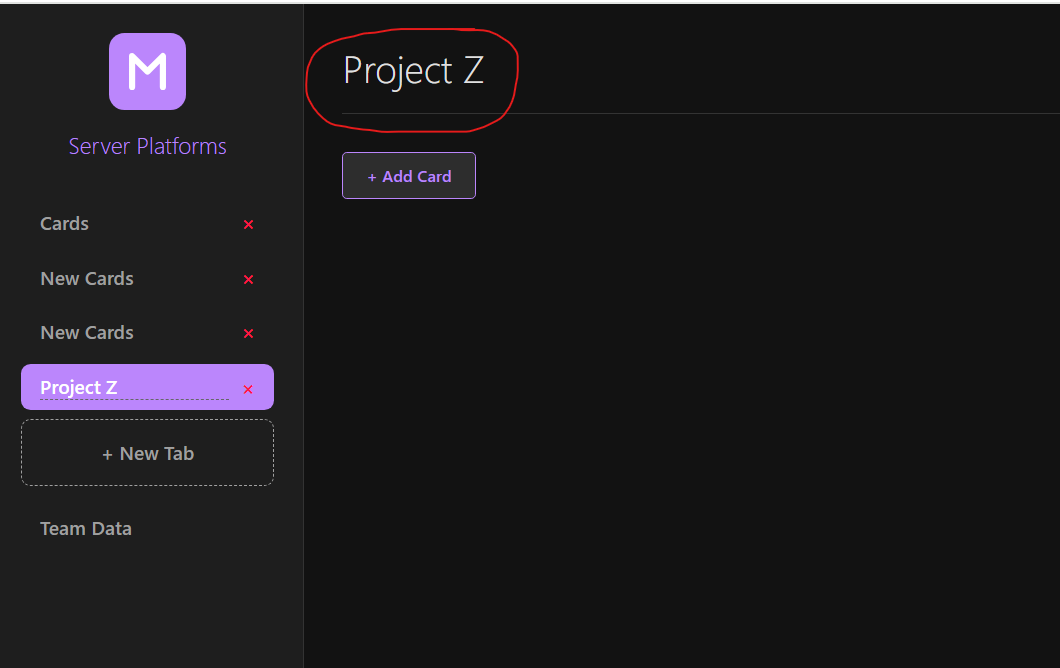
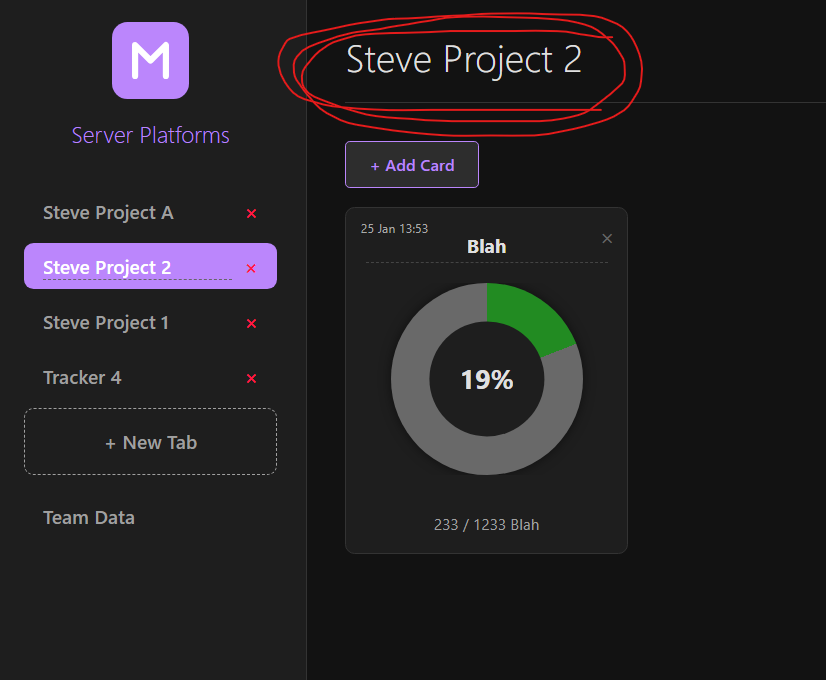
feat: Allow editing active tab name via page title

diff --git a/app.js b/app.js
@@ -480,16 +480,43 @@ export const renderBoard = () => {
     const viewTrackers = getEl('viewTrackers');
     const viewTeam = getEl('viewTeamData');
     const pageTitle = getEl('pageTitle');
+    const isPub = document.body.classList.contains('publishing');
     
     if (State.activeTabId === 'team') {
         if(viewTrackers) viewTrackers.style.display = 'none';
         if(viewTeam) viewTeam.style.display = 'block';
-        if(pageTitle) pageTitle.innerText = "Team Data";
+        if(pageTitle) {
+            pageTitle.innerText = "Team Data";
+            pageTitle.contentEditable = "false";
+            pageTitle.style.borderBottom = "none";
+        }
     } else {
         if(viewTrackers) viewTrackers.style.display = 'block';
         if(viewTeam) viewTeam.style.display = 'none';
         const currentTab = State.trackerTabs.find(t => t.id === State.activeTabId);
-        if(pageTitle) pageTitle.innerText = currentTab ? currentTab.name : "Cards";
+        if(pageTitle) {
+            pageTitle.innerText = currentTab ? currentTab.name : "Cards";
+            if (!isPub && currentTab) {
+                pageTitle.contentEditable = "true";
+                pageTitle.spellcheck = false;
+                pageTitle.style.borderBottom = "1px dashed #666";
+                pageTitle.style.cursor = "text";
+                pageTitle.onblur = () => {
+                    App.renameTab(currentTab.id, pageTitle.innerText);
+                    renderBoard(); // Re-render sidebar to show new name
+                };
+                pageTitle.onkeydown = (e) => { 
+                    if(e.key === 'Enter') { 
+                        e.preventDefault(); 
+                        pageTitle.blur(); 
+                    } 
+                };
+            } else {
+                pageTitle.contentEditable = "false";
+                pageTitle.style.borderBottom = "none";
+                pageTitle.style.cursor = "default";
+            }
+        }
     }
 
     // --- TRACKER GRID RENDERING ---
